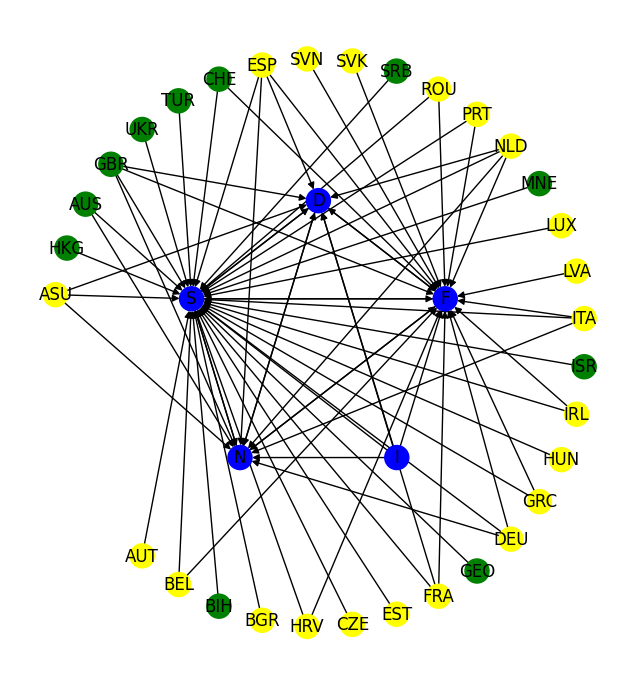
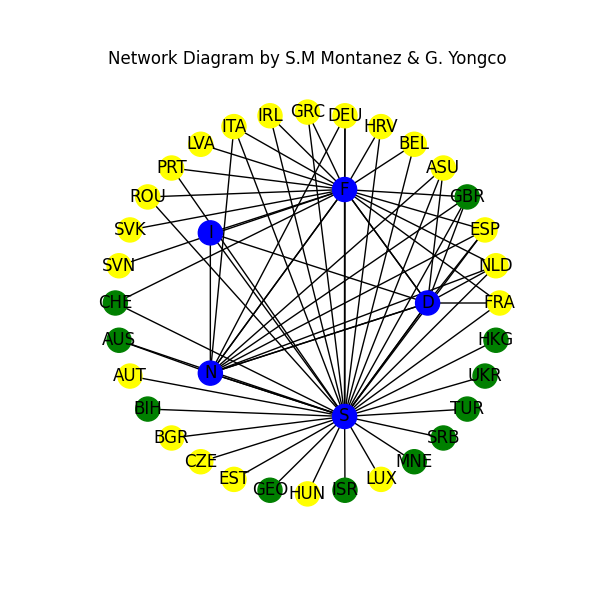
arranged the outer circle to minimize intersecting edges in the pentagram

Changed region(s): [[0.06, 0.06, 0.93, 0.93]]

diff --git a/network_graph.py b/network_graph.py
@@ -24,20 +24,19 @@ def section(section_name:str = "SECTION") -> None:
 # FUNCTIONS 
 # ========================================================================
 
-
 def get_triangle_sides(hypotenuse, angle_degrees):
 	round_to_decimal = 10
 
 	angle_radians = math.radians(angle_degrees)
 	height = round(hypotenuse * math.sin(angle_radians), round_to_decimal)
 	length = round(hypotenuse * math.cos(angle_radians), round_to_decimal)
-	return [height, length]
+	return [length, height]
 
-def polygon_vertices(number_of_sides = 5, radius = 10):
+def polygon_vertices(number_of_sides = 5, radius = 10, start_angle = 0):
 	angle_per_vertex = 360/number_of_sides
 	coordinates:list = []
-	for i in range(0,5):
-		coordinates.append(get_triangle_sides(radius, angle_per_vertex*i))
+	for i in range(0,number_of_sides):
+		coordinates.append(get_triangle_sides(radius, (angle_per_vertex*i)+start_angle))
 	
 	return coordinates
 
@@ -54,9 +53,9 @@ if __name__ == '__main__':
 
 	file_name:str = r"references/networks_assignment.csv"
 	df:pd.DataFrame = pd.read_csv(file_name, index_col=0)
+	G:nx.MultiGraph = nx.MultiGraph()
 
-	G:nx.DiGraph = nx.DiGraph()
-
+	# putting in the nodes with their colors
 	for col in df.columns:
 		col:str = str(col)
 		color_str:str = "yellow"
@@ -66,24 +65,42 @@ if __name__ == '__main__':
 			color_str = "green"
 		G.add_node(col, color=color_str)
 	new_node_colors = [G.nodes[each_node]['color'] for each_node in G.nodes]
-	print(new_node_colors)
 
+	# putting in the edges
 	for col in df.columns:
 		for row in df[col].index:
 			edge_weight:int = df.at[row, col]
 			if edge_weight > 0:
 				G.add_edge(col, row, weight = edge_weight)
 
+
+	# inner circle positions
 	new_positions = nx.shell_layout(G)
 	inner_circle_coords:list = polygon_vertices(radius=0.5)
+	for i, inner_node in enumerate(nodes_blue): 
+		new_positions[inner_node] = inner_circle_coords[i]
 
-	for i, center_node in enumerate(nodes_blue): 
-		new_positions[center_node] = inner_circle_coords[i]
-	print(new_positions)
+	# outer circle positions
+	outer_circle_edges:list = []
+	for inner_node in nodes_blue:
+		for line_edge in G.edges(inner_node):
+			receiving_edge = line_edge[1]
+			if receiving_edge in nodes_blue:
+				continue
+			if receiving_edge in outer_circle_edges:
+				continue
+			outer_circle_edges.append(receiving_edge)
+	# print(outer_circle_edges)
+	
+	outer_circle_coords:list = polygon_vertices(number_of_sides=len(outer_circle_edges), radius=0.8)
+	for i, outer_node in enumerate(outer_circle_edges): 
+		new_positions[outer_node] = outer_circle_coords[i]
 
+	# output
+	plt.figure(figsize=(6, 6))
+	plt.title("Network Diagram by S.M Montanez & G. Yongco")
 	nx.draw(G, pos=new_positions, with_labels=True, node_color=new_node_colors)
 	plt.show()
-
 
 
 	section("END")
